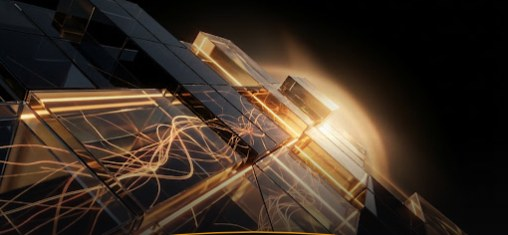
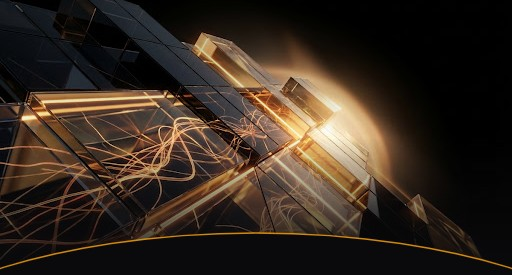
docs: 시작하며 쪽 표지를 Stitch 시안 2차로 교체(SERIES NO. 01을 머리글 오른쪽에, 카드 테두리와 그림자 없이 512x686 비율, 그림 아래 그러데이션과 곡선을 시안 그대로, 제목 38px 굵게, 부제 15px, 아래 두 겹 주황 띠, 모바일 머리글 한 줄)

diff --git a/assets/style.css b/assets/style.css
@@ -229,19 +229,21 @@ figcaption ul.capnote { margin: 0.25rem 0 0; padding-left: 1.1rem; }
 figcaption ul.capnote li { margin: 0.1rem 0; }
 /* 부록 머리의 한 줄 안내 상자(요점 상자와 구분) */
 .tip { margin: 0 0 1.6rem; padding: 0.6rem 0.9rem; background: var(--panel); border-left: 3px solid var(--link); border-radius: 4px; color: var(--ink); }
-/* 시작하며 쪽 책 표지(2026-10-04): 표지만 어두운 바탕과 주황 강조, 외부 글꼴과 외부 이미지 없음 */
-.book-cover { max-width: 520px; margin: 0 0 2.5rem; background: #0b0b0d; border-radius: 6px; overflow: hidden; box-shadow: 0 10px 30px rgba(0,0,0,0.25); }
-.book-cover-figure { position: relative; }
-.book-cover-art { display: block; width: 100%; height: auto; }
-.book-cover-curve { position: absolute; left: 0; bottom: -1px; width: 100%; height: 40px; display: block; }
-.book-cover-body { padding: 1.4rem 2rem 2.2rem; position: relative; }
-.book-cover-body::after { content: ""; position: absolute; left: 0; right: 0; bottom: 0; height: 18px; background: linear-gradient(178deg, transparent 45%, #f59e0b 46%, #f59e0b 70%, #d97706 71%); }
-.book-cover-kicker { margin: 0 0 1rem; font-size: 12px; font-weight: 600; letter-spacing: 0.18em; font-family: ui-monospace, SFMono-Regular, Menlo, Consolas, monospace; text-transform: uppercase; color: #f59e0b; }
-.book-cover h1 { margin: 0 0 1rem; }
-.book-cover h1 .h-title { color: #ffffff; font-size: 40px; line-height: 1.2; }
+/* 시작하며 쪽 책 표지(2026-10-04, Stitch 시안 2차): 512x686 비율, 어두운 바탕과 주황 강조, 외부 글꼴과 외부 이미지 없음 */
+.book-cover { width: 100%; max-width: 512px; aspect-ratio: 512 / 686; margin: 0 0 2.5rem; background: #0a0a0c; color: #fff; display: flex; flex-direction: column; overflow: hidden; }
+.book-cover-art { display: block; width: 100%; height: auto; flex-shrink: 0; }
+.book-cover-body { flex: 1; display: flex; flex-direction: column; justify-content: space-between; padding: 12px 36px 24px; }
+.book-cover-meta { display: flex; align-items: center; justify-content: space-between; gap: 1rem; margin-bottom: 12px; }
+.book-cover-kicker, .book-cover-series, .book-cover-edition { font-family: ui-monospace, SFMono-Regular, Menlo, Consolas, monospace; font-size: 11px; text-transform: uppercase; }
+.book-cover-kicker { letter-spacing: 0.2em; font-weight: 600; color: rgba(251, 191, 36, 0.9); }
+.book-cover-series { letter-spacing: 0.2em; color: #a3a3a3; white-space: nowrap; }
+.book-cover h1 { margin: 0 0 10px; }
+.book-cover h1 .h-title { font-size: 38px; font-weight: 800; line-height: 1.12; letter-spacing: -0.025em; color: #fff; }
 .book-cover-accent, .book-cover-line { display: block; }
-.book-cover-accent { color: #f59e0b; }
-.book-cover-sub { margin: 0 0 5.5rem; color: #d6d3d1; font-size: 16px; font-weight: 600; }
-.book-cover-edition { margin: 0; padding-top: 0.9rem; border-top: 1px solid #2a2a2c; font-family: ui-monospace, SFMono-Regular, Menlo, Consolas, monospace; font-size: 11px; letter-spacing: 0.16em; text-transform: uppercase; color: #8a8a8f; }
+.book-cover-accent { color: #F59E0B; }
+.book-cover-line:first-of-type { margin-top: 4px; }
+.book-cover-sub { margin: 12px 0 0; padding-right: 8px; font-size: 15px; font-weight: 400; line-height: 1.375; color: #d4d4d4; }
+.book-cover-edition { margin: 0; padding-top: 14px; border-top: 1px solid rgba(38, 38, 38, 0.8); letter-spacing: 0.05em; color: #737373; }
+.book-cover-band { display: block; width: 100%; height: 28px; flex-shrink: 0; }
 .visually-hidden { position: absolute; width: 1px; height: 1px; overflow: hidden; clip: rect(0 0 0 0); white-space: nowrap; }
-@media (max-width: 900px) { .book-cover-body { padding: 1.4rem 1.3rem 1.2rem; } .book-cover h1 .h-title { font-size: 30px; } }
+@media (max-width: 900px) { .book-cover-body { padding: 10px 22px 18px; } .book-cover-kicker, .book-cover-series { font-size: 10px; letter-spacing: 0.1em; } .book-cover-meta { gap: 0.5rem; } .book-cover h1 .h-title { font-size: 30px; } .book-cover-sub { font-size: 14px; } }

diff --git a/index.html b/index.html
@@ -44,13 +44,16 @@
 <main id="main">
 <article>
 <div class="book-cover">
-<div class="book-cover-figure"><img class="book-cover-art" src="assets/cover-art.jpg" alt=""><svg class="book-cover-curve" viewBox="0 0 520 40" preserveAspectRatio="none" aria-hidden="true"><path d="M0 40 L0 32 Q260 -12 520 32 L520 40 Z" fill="#0b0b0d"/><path d="M0 32 Q260 -12 520 32" fill="none" stroke="#f59e0b" stroke-width="1.6"/></svg></div>
+<img class="book-cover-art" src="assets/cover-art.jpg" alt="">
 <div class="book-cover-body">
-<p class="book-cover-kicker">AI Engineering &amp; Architecture</p>
+<div class="book-cover-top">
+<div class="book-cover-meta"><span class="book-cover-kicker">AI Engineering &amp; Architecture</span><span class="book-cover-series">Series No. 01</span></div>
 <h1><span class="h-title"><span class="book-cover-accent">생성형 AI</span><span class="visually-hidden">, </span> <span class="book-cover-line">묻고 확인하고</span> <span class="book-cover-line">활용하기</span></span></h1>
 <p class="book-cover-sub">프롬프트 엔지니어링과 AI 워크플로우 실무 검증의 기술</p>
+</div>
 <p class="book-cover-edition">First Edition</p>
 </div>
+<svg class="book-cover-band" viewBox="0 0 512 28" preserveAspectRatio="none" aria-hidden="true"><polygon fill="#F59E0B" points="0,14 512,2 512,28 0,28"/><polygon fill="#D97706" points="0,21 512,9 512,28 0,28"/></svg>
 </div>
 <p>이 책은 생성형 AI가 무엇이고 어떻게 작동하는지 설명한 뒤, 학습, 업무, 창작에 활용하는 방법과 결과물을 검증하고 책임 있게 사용하는 방법을 다룹니다.</p>
 

diff --git a/src/index.html b/src/index.html
@@ -1,11 +1,14 @@
 <div class="book-cover">
-<div class="book-cover-figure"><img class="book-cover-art" src="assets/cover-art.jpg" alt=""><svg class="book-cover-curve" viewBox="0 0 520 40" preserveAspectRatio="none" aria-hidden="true"><path d="M0 40 L0 32 Q260 -12 520 32 L520 40 Z" fill="#0b0b0d"/><path d="M0 32 Q260 -12 520 32" fill="none" stroke="#f59e0b" stroke-width="1.6"/></svg></div>
+<img class="book-cover-art" src="assets/cover-art.jpg" alt="">
 <div class="book-cover-body">
-<p class="book-cover-kicker">AI Engineering &amp; Architecture</p>
+<div class="book-cover-top">
+<div class="book-cover-meta"><span class="book-cover-kicker">AI Engineering &amp; Architecture</span><span class="book-cover-series">Series No. 01</span></div>
 <h1><span class="h-title"><span class="book-cover-accent">생성형 AI</span><span class="visually-hidden">, </span> <span class="book-cover-line">묻고 확인하고</span> <span class="book-cover-line">활용하기</span></span></h1>
 <p class="book-cover-sub">프롬프트 엔지니어링과 AI 워크플로우 실무 검증의 기술</p>
+</div>
 <p class="book-cover-edition">First Edition</p>
 </div>
+<svg class="book-cover-band" viewBox="0 0 512 28" preserveAspectRatio="none" aria-hidden="true"><polygon fill="#F59E0B" points="0,14 512,2 512,28 0,28"/><polygon fill="#D97706" points="0,21 512,9 512,28 0,28"/></svg>
 </div>
 <p>이 책은 생성형 AI가 무엇이고 어떻게 작동하는지 설명한 뒤, 학습, 업무, 창작에 활용하는 방법과 결과물을 검증하고 책임 있게 사용하는 방법을 다룹니다.</p>
 
